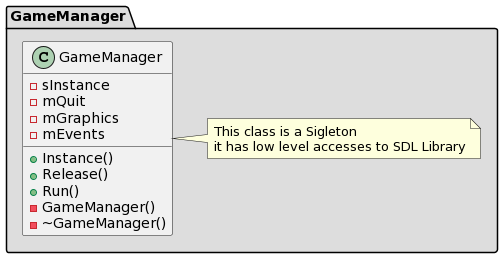
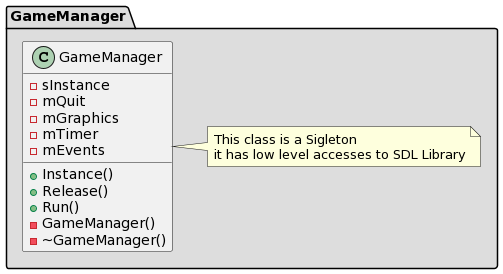
one single commit for the video 2. Creating a Timer for our game, added documentation of Timer class and updated GameManager class too, archive of videos in doc directory

diff --git a/GalagaSDL2/GameManager/src/GameManager.cpp b/GalagaSDL2/GameManager/src/GameManager.cpp
@@ -12,6 +12,7 @@
 #include <iostream>
 
 #include "GameManager.h"
+#include "Timer.h"
 
 GameManager *GameManager::sInstance = nullptr;
 
@@ -38,6 +39,8 @@ void GameManager::Run()
 {
     while (!mQuit)
     {
+        mTimer->Update();
+
         while (0 != SDL_PollEvent(&mEvents))
         {
             if (SDL_QUIT == mEvents.type)
@@ -45,9 +48,17 @@ void GameManager::Run()
                 std::cout << "SDL Event SDL_QUIT" << std::endl;
                 mQuit = true;
             }
+        }
+
+        if ((1.0f / FRAME_RATE) <= mTimer->DeltaTime())
+        {
+            std::cout << "DeltaTime: " << mTimer->DeltaTime() << std::endl;
 
             mGraphics->Render();
-        }
+
+            mTimer->Reset();
+        } 
+
     }
 }
 
@@ -62,12 +73,18 @@ GameManager::GameManager()
     {
         mQuit = true;
     }
+
+    mTimer = Timer::Instance();
 }
 
 /******************************************************************************/
 GameManager::~GameManager()
 {
     std::cout << "GameManager Distructor called" << std::endl;
+
     Graphics::Release();
     mGraphics = nullptr;
+
+    Timer::Release();
+    mTimer = nullptr;
 }

diff --git a/GalagaSDL2/GameManager/include/GameManager.h b/GalagaSDL2/GameManager/include/GameManager.h
@@ -13,7 +13,7 @@
 
 #include "Graphics.h"
 #include "Constants.h"
-
+#include "Timer.h"
 
 class GameManager
 {
@@ -22,15 +22,20 @@ class GameManager
      */
     private:
 
-        static GameManager *sInstance;
+        static GameManager *sInstance;    /**< GameManager class instance. */
 
-        bool mQuit;
-        Graphics *mGraphics;
+        const int FRAME_RATE = APPLICATION_FRAME_RATE; /**< Refresh rate of the graphics. */
 
-        SDL_Event mEvents;
+        bool mQuit;             /**< Boolean tracking Quit event triggered. */ 
+        Graphics *mGraphics;    /**< member Graphics Instance. */
+
+        Timer* mTimer;     /**< member Timer Instance. */
+
+        SDL_Event mEvents;      /**< Last Event sent by SDL_PollEvent. */
 
     /*
-     * Public member methods declaration, mostly static methods respecting the singloton design pattern.
+     * Public member methods declaration, mostly static methods 
+     * respecting the singloton design pattern.
      */
     public:
 
@@ -38,7 +43,6 @@ class GameManager
         static void Release();
 
         void Run();
-
 
     /*
      * Private member methods declaration.

diff --git a/GalagaSDL2/Graphics/include/Graphics.h b/GalagaSDL2/Graphics/include/Graphics.h
@@ -43,7 +43,8 @@ class Graphics
 
 
     /*
-     * Public member methods declaration, mostly static methods respecting the singloton design pattern.
+     * Public member methods declaration, mostly static methods 
+     * respecting the singloton design pattern.
      */
     public:
 

diff --git a/GalagaSDL2/Constants/include/Constants.h b/GalagaSDL2/Constants/include/Constants.h
@@ -18,3 +18,4 @@ const std::string WINDOW_NAME = "GalagaSDL2";
 
 const int APPLICATION_WINDOW_WIDTH = 800;
 const int APPLICATION_WINDOW_HEIGTH = 600;
+const int APPLICATION_FRAME_RATE = 60;

diff --git a/GalagaSDL2/Graphics/src/Graphics.cpp b/GalagaSDL2/Graphics/src/Graphics.cpp
@@ -61,6 +61,7 @@ Graphics::Graphics()
 Graphics::~Graphics()
 {
     std::cout << "Graphics Distructor called" << std::endl;
+
     SDL_DestroyWindow(mWindow);
     mWindow = nullptr;
 }

diff --git a/doc/architecture.md b/doc/architecture.md
@@ -2,19 +2,20 @@
 
 This document lists all the classes of the application and gives a small description of their role in the structure of the application. For more detailed information about each class please refer to the doxygen documentation on each header file.
 
-## Table of content
+## Table of content 
 
-1. [Graphics class](#Graphics_class)
-2. [GameManager class](#GameManager_class)
+  - [Graphics class ](#graphics-class)
+  - [GameManager class ](#gamemanager-class)
+  - [Timer class ](#timer-class)
 
-## Graphics class <a name="Graphics_class"></a>
+## Graphics class <a name="graphics-class"></a>
 
 This class uses the singleton design pattern (no constructor, unique instance, static methods to access members), it has the responsability of defining the Graphics properties of the application such as screen width and hieght, the SDL_Window and SDL_Surface. It is this class' responsability to initialize the SDL Library as well as to call SDL_Quit() at the end when the class destructor is called.
 
 - Here is a UML view of of the class: 
 
 <p align="center">
-  <img src="uml_screenshots/uml-Graphics-class.png" width="244" height="153" />
+  <img src="uml_screenshots/uml-Graphics-class.png" width=50% height=50% />
 </p>
 
 - Here is the equivalent UML code :
@@ -44,14 +45,16 @@ package "Graphics" #DDDDDD {
 }
 @enduml
 ```
-## GameManager class <a name="GameManager_class"></a>
+## GameManager class <a name="gamemanager-class"></a>
 
 This class uses the singleton design pattern, this class will create in its constructor an instance of the object Graphics. It is this class responsibility to insure that the Graphics are initialized and to run the renderring. This class will also call the SDL_PollEvent() in a loop in order to monitor the events (user inputs, ...).
+
+It uses Graphics and Timer classes to create members instances and handles their release too.
 
 - Here is a UML view of of the class: 
 
 <p align="center">
-  <img src="uml_screenshots/uml-GameManager-class.png" width="252" height="129" />
+  <img src="uml_screenshots/uml-GameManager-class.png" width=50% height=50% />
 </p>
 
 - Here is the equivalent UML code :
@@ -63,6 +66,7 @@ package "GameManager" #DDDDDD {
         - sInstance
         - mQuit
         - mGraphics
+        - mTimer
         - mEvents
         + Instance()
         + Release()
@@ -72,6 +76,44 @@ package "GameManager" #DDDDDD {
     }
 
     note right of GameManager 
+        This class is a Sigleton
+        it has low level accesses to SDL Library
+    end note
+}
+@enduml
+```
+
+## Timer class <a name="timer-class"></a>
+
+This class uses the singleton design pattern, it uses SDL_GetTicks() to get an integer number that represents the milliseconds since SDL_Init(). This class gives access to a member DeltaTime() that tracks the milliseconds count since last time we've updated the timer.
+
+- Here is a UML view of of the class: 
+
+<p align="center">
+  <img src="uml_screenshots/uml-Timer-class.png" width=50% height=50% />
+</p>
+
+- Here is the equivalent UML code :
+
+```
+@startuml
+package "Timer" #DDDDDD {
+    class Timer {
+        - sInstance
+        - mStartTicks
+        - mDeltaTime
+        - mTimeScale
+        + Instance()
+        + Release()
+        + Reset()
+        + TimeScale(float)
+        + TimeScale()
+        + Update()
+        - Timer()
+        - ~Timer()
+    }
+
+    note right of Timer 
         This class is a Sigleton
         it has low level accesses to SDL Library
     end note

diff --git a/doc/tutorial-links.md b/doc/tutorial-links.md
@@ -9,4 +9,4 @@ Please note that this is a Linux port using CMake to build, this repository also
 | Video Title | Video link | Date of upload to YT | date of update to documentation |
 | --------------- | ------------------ | -------------- | ------------------|
 | 1. Setting up a Framework for our game | https://www.youtube.com/watch?v=ATa_joa6Gzg | 2-13-2017 | 12-9-2023 |
-
+| 2. Creating a Timer for our game | https://www.youtube.com/watch?v=z9U-Jif4RVU | 2-16-2017 | 12-9-2023 |
